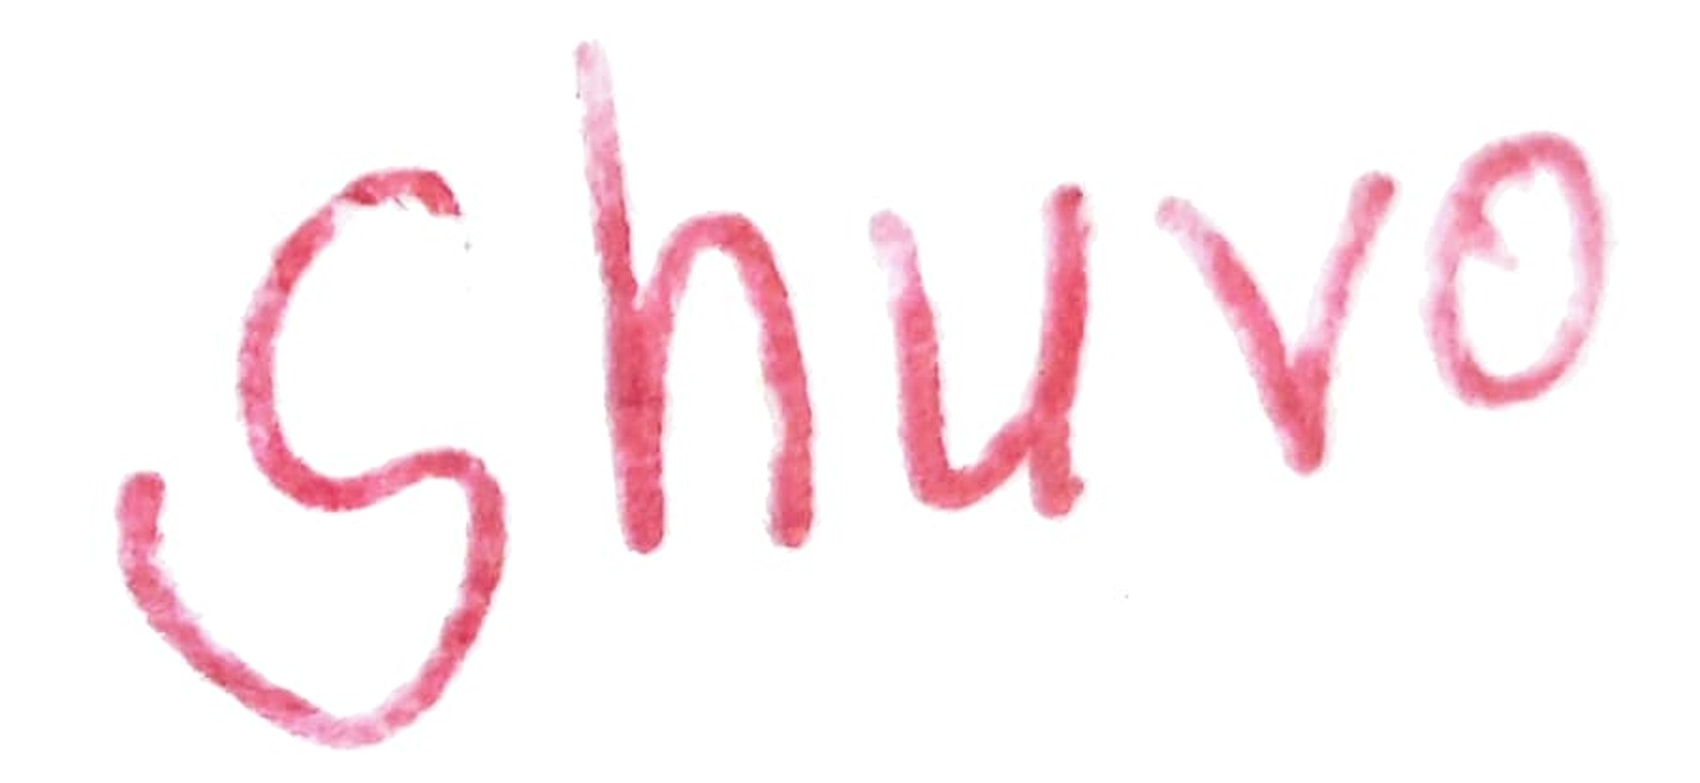
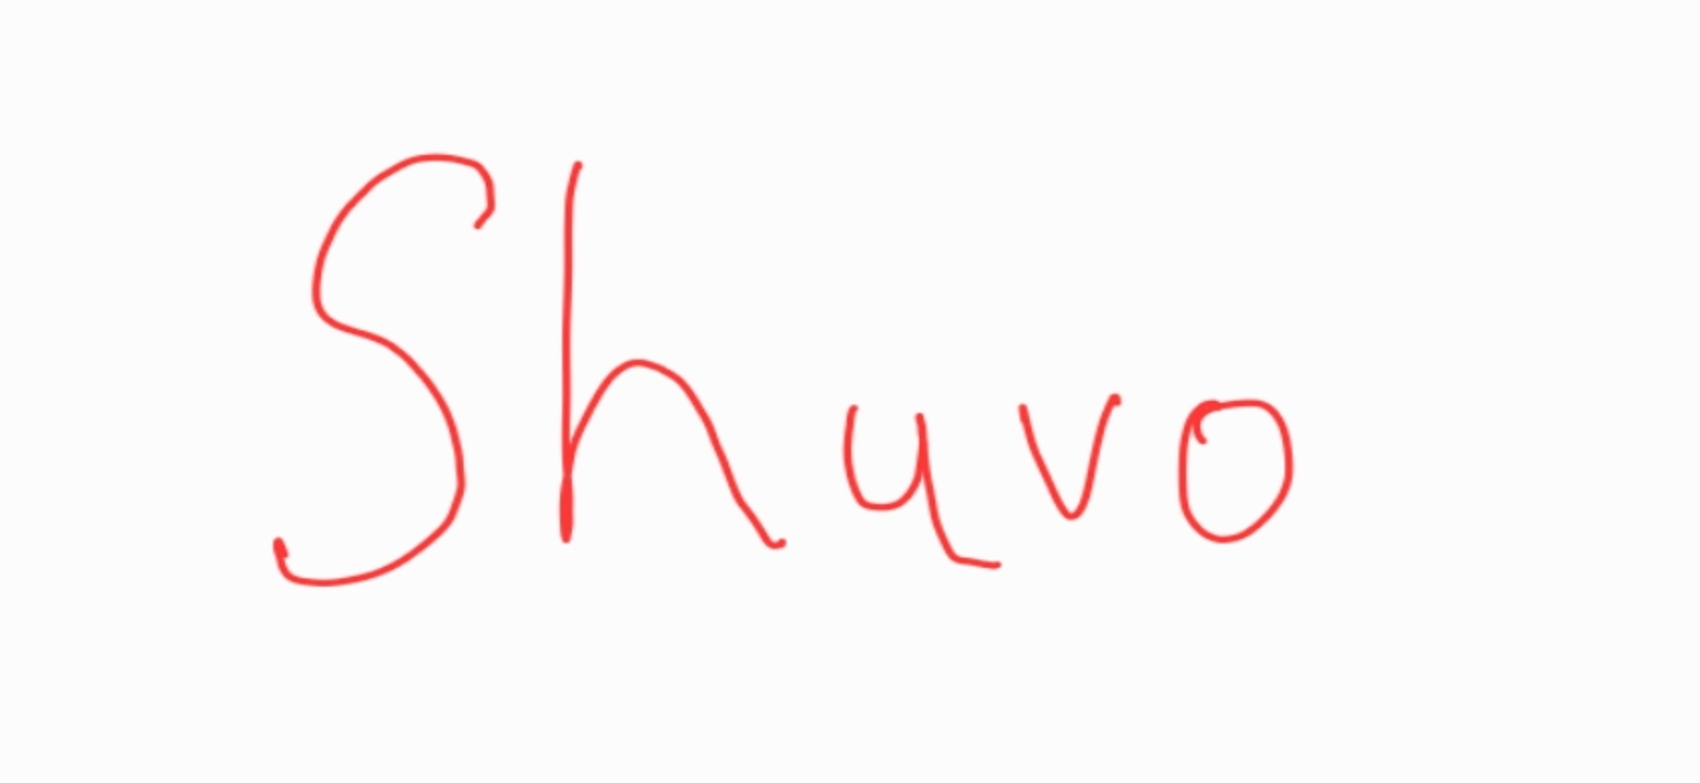
Add single pair result JSON files for validation
- Created new JSON files for validation results of single pairs across different thresholds.
- Each file includes details such as checkpoint path, correctness of prediction, device used, distance, expected and predicted labels, and threshold values.
- Results cover various scenarios including k_pair, k_pair_cedar_threshold, k_vs_s_bhsig_threshold, k_vs_s_cedar_threshold, s_pair, and s_pair_cedar_threshold.

diff --git a/README.md b/README.md
@@ -1110,3 +1110,56 @@ writer — long horizontal lines may cause the BHSig model to predict a
 Hindi writer with similar overall stroke geometry, even though the
 ink shapes themselves are completely different. These illustrations
 make the failure mode concrete.
+
+---
+
+## Part 6: Team Signature Pairwise Demo (Siamese Inference)
+
+This section reports a direct pairwise verification demo using the final
+Siamese checkpoint:
+
+- checkpoint:
+  `siamese/runs/siamese_full_hpo_lr5e4_m075_20260408-152352/checkpoints/best.pt`
+- decision rule: predict `match` if \(d \le \tau\), else `non-match`
+- threshold variants used:
+  - BHSig locked threshold: \(\tau = 0.519521\)
+  - CEDAR-calibrated threshold (Mode B): \(\tau = 0.093968\)
+
+### Pairwise results table
+
+| Pair (Image A vs Image B) | Distance \(d\) | Threshold source | \(\tau\) | Predicted | Expected | Correct |
+|---|---:|---|---:|---|---|---|
+| `K-G.jpg` vs `K-F.jpg` | 0.229142 | BHSig locked | 0.519521 | match (1) | non-match (0) | No |
+| `K-G.jpg` vs `K-F.jpg` | 0.229142 | CEDAR calibrated | 0.093968 | non-match (0) | non-match (0) | Yes |
+| `S-G.jpg` vs `S-F.jpg` | 1.209397 | BHSig locked | 0.519521 | non-match (0) | non-match (0) | Yes |
+| `S-G.jpg` vs `S-F.jpg` | 1.209397 | CEDAR calibrated | 0.093968 | non-match (0) | non-match (0) | Yes |
+| `K-G.jpg` vs `S-G.jpg` | 1.249992 | BHSig locked | 0.519521 | non-match (0) | non-match (0) | Yes |
+| `K-G.jpg` vs `S-G.jpg` | 1.249992 | CEDAR calibrated | 0.093968 | non-match (0) | non-match (0) | Yes |
+
+### Interpretation
+
+The key observation is that the learned embedding distance for
+`K-G.jpg` vs `K-F.jpg` (0.229142) lies between the two thresholds:
+
+\[
[phone redacted] < 0.229142 < 0.519521
+\]
+
+So:
+
+- with the more permissive BHSig threshold, the pair is accepted as `match`
+  (false acceptance),
+- with the stricter CEDAR-calibrated threshold, the same pair is correctly
+  rejected as `non-match`.
+
+This directly illustrates that for real deployment, **threshold calibration is
+as important as representation quality**.
+
+### Saved inference artifacts
+
+- `validation/results/k_pair/single_pair_result.json`
+- `validation/results/k_pair_cedar_threshold/single_pair_result.json`
+- `validation/results/s_pair/single_pair_result.json`
+- `validation/results/s_pair_cedar_threshold/single_pair_result.json`
+- `validation/results/k_vs_s_bhsig_threshold/single_pair_result.json`
+- `validation/results/k_vs_s_cedar_threshold/single_pair_result.json`